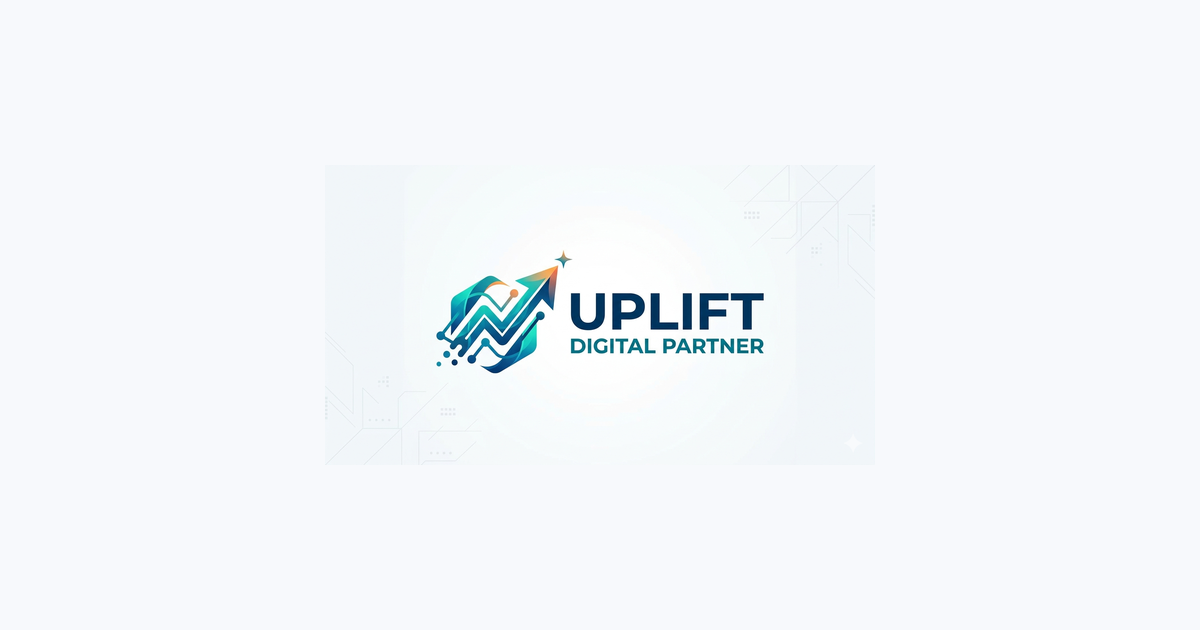
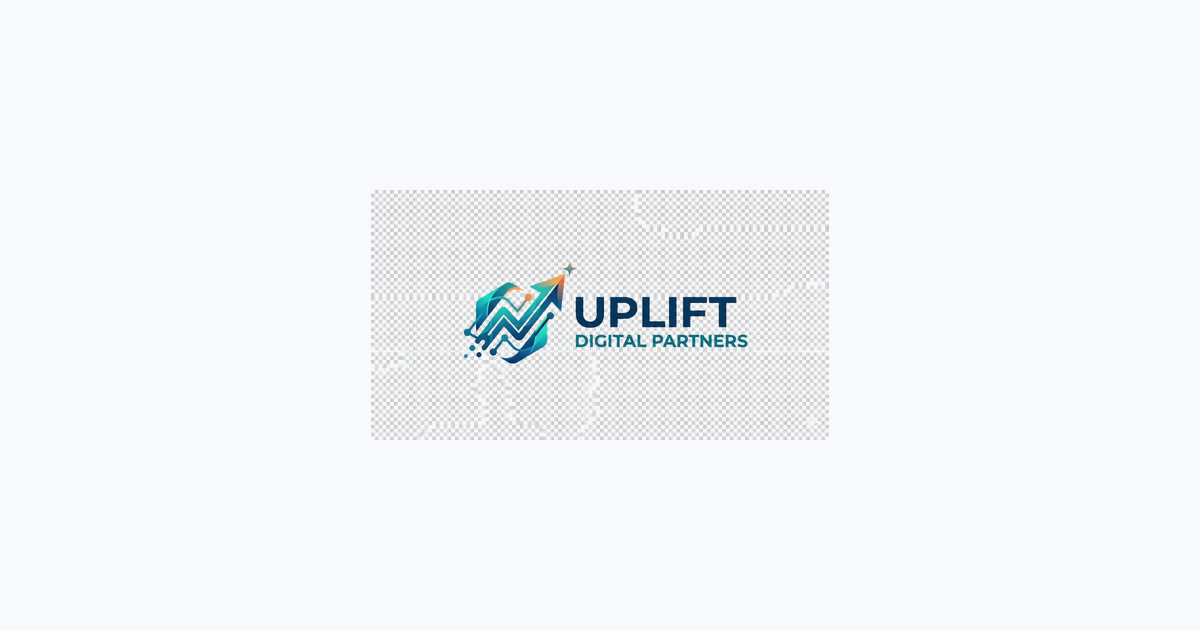
Fixed bugs

Changed region(s): [[0.3083, 0.3016, 0.7092, 0.6937]]

diff --git a/assets/js/main.js b/assets/js/main.js
@@ -16,6 +16,13 @@
     });
   });
 
+  // Close mobile nav when a link is clicked
+  document.querySelectorAll('.nav-links a').forEach(function(link) {
+    link.addEventListener('click', function() {
+      document.querySelector('.nav-links').classList.remove('show');
+    });
+  });
+
   // Intersection Observer for scroll animations
   const observer = new IntersectionObserver((entries) => {
     entries.forEach(entry => {
@@ -39,11 +46,11 @@
       { key: 'name', type: 'text', placeholder: 'Type your name...' },
       { key: 'business', type: 'text', placeholder: 'Your business name...' },
       { key: 'service', type: 'chips', options: ['Custom Website', 'Website Revamp', 'Brand & UI Design', 'SEO & Local Search', 'Ongoing Support', 'Not Sure Yet'] },
-      { key: 'details', type: 'text', placeholder: 'Tell us briefly...' },
-      { key: 'email', type: 'text', placeholder: 'your@email.com' },
-      { key: 'phone', type: 'text', placeholder: '(555) 123-4567 or skip' },
+      { key: 'details', type: 'text', placeholder: 'Tell us briefly...', skippable: true },
+      { key: 'email', type: 'text', placeholder: 'your@email.com', validate: 'email' },
+      { key: 'phone', type: 'text', placeholder: '(555) 123-4567 or skip', validate: 'phone' },
       { key: 'meetingType', type: 'chips', options: ['\u{1F3A5} Video Call (Google Meet)', '\u{1F91D} In-Person Meeting'] },
-      { key: 'address', type: 'text', placeholder: '123 Main St, City, State...', skipIf: 'video' },
+      { key: 'address', type: 'text', placeholder: '123 Main St, City, State...', skipIf: 'video', validate: 'address' },
       { key: 'date', type: 'calendar' },
       { key: 'time', type: 'timeslots' },
       { key: 'confirm', type: 'auto' }
@@ -58,10 +65,10 @@
     var s = chatData.steps[step];
     if (!s) return "";
     switch(s.key) {
-      case 'name': return "Hey there! \u{1F44B} I'm the Uplift Digital assistant. I'd love to help you book a free consultation with our team. Let's get started \u2014 what's your name?";
+      case 'name': return "Hey there! \u{1F44B} I'm the Uplift Digital Partners assistant. I'd love to help you book a free consultation with our team. Let's get started \u2014 what's your name?";
       case 'business': return "Nice to meet you, <strong>" + answers.name + "</strong>! What's your business called?";
       case 'service': return "Great \u2014 <strong>" + answers.business + "</strong> sounds interesting! What kind of help are you looking for?";
-      case 'details': return "Good choice! Can you give us a quick idea of what you have in mind? A sentence or two is perfect.";
+      case 'details': return "Good choice! Can you give us a quick idea of what you have in mind? A sentence or two is perfect. <em>(Or skip this if you'd rather discuss in the call.)</em>";
       case 'email': return "Got it! What's the best email address to reach you at?";
       case 'phone': return "Almost done with the basics! What's a good phone number? (Type <em>skip</em> if you'd rather not share one.)";
       case 'meetingType': return "How would you like to meet? We offer both virtual and in-person consultations:";
@@ -110,7 +117,7 @@
   function addBubble(text, type) {
     const div = document.createElement('div');
     div.className = 'chat-bubble ' + type;
-    if (type === 'bot') div.innerHTML = '<span class="bot-label">Uplift Digital</span>' + text;
+    if (type === 'bot') div.innerHTML = '<span class="bot-label">Uplift Digital Partners</span>' + text;
     else div.textContent = text;
     msgContainer.appendChild(div);
     scrollChat();
@@ -272,6 +279,11 @@
 
   function setInputState(step) {
     const s = chatData.steps[step];
+    // Remove any old skip button
+    var oldSkip = document.querySelector('.chat-skip-btn');
+    if (oldSkip) oldSkip.remove();
+    clearValidationError();
+
     if (!s || s.type === 'auto' || s.type === 'chips' || s.type === 'timeslots' || s.type === 'calendar') {
       inputArea.style.display = 'none';
     } else {
@@ -279,10 +291,23 @@
       chatInput.placeholder = s.placeholder || 'Type your answer...';
       chatInput.value = '';
       chatInput.focus();
+
+      // Show skip button if step is skippable
+      if (s.skippable) {
+        var skipBtn = document.createElement('button');
+        skipBtn.className = 'chat-skip-btn';
+        skipBtn.textContent = 'Skip this question \u2192';
+        skipBtn.addEventListener('click', skipStep);
+        msgContainer.appendChild(skipBtn);
+        scrollChat();
+      }
     }
   }
 
   function processAnswer(value) {
+    clearValidationError();
+    var oldSkip = document.querySelector('.chat-skip-btn');
+    if (oldSkip) oldSkip.remove();
     addBubble(value, 'user');
     chatData.answers[chatData.steps[chatData.step].key] = value;
     chatData.step++;
@@ -314,13 +339,74 @@
     }, delay);
   }
 
+  // --- INPUT VALIDATION ---
+  function validateInput(value, type) {
+    switch(type) {
+      case 'email':
+        var emailRegex = /^[a-zA-Z0-9._%+\-]+@[a-zA-Z0-9.\-]+\.[a-zA-Z]{2,}$/;
+        if (!emailRegex.test(value)) return 'Please enter a valid email address (e.g. name@example.com)';
+        return null;
+      case 'phone':
+        if (value.toLowerCase() === 'skip') return null;
+        var cleaned = value.replace(/[\s\-\(\)\.]/g, '');
+        if (!/^\+?\d{7,15}$/.test(cleaned)) return 'Please enter a valid phone number (e.g. 6461234567 or (646) 123-4567)';
+        return null;
+      case 'address':
+        if (value.length < 10) return 'Please enter a full address (e.g. 123 Main St, City, State 12345)';
+        if (!/\d/.test(value)) return 'Address should include a street number';
+        if (!/[a-zA-Z]/.test(value)) return 'Address should include a street name';
+        return null;
+      default:
+        return null;
+    }
+  }
+
+  function showValidationError(msg) {
+    // Remove any existing error
+    var existing = document.querySelector('.chat-error');
+    if (existing) existing.remove();
+    var errDiv = document.createElement('div');
+    errDiv.className = 'chat-error';
+    errDiv.textContent = '\u26A0 ' + msg;
+    msgContainer.appendChild(errDiv);
+    chatInput.classList.add('input-error');
+    scrollChat();
+  }
+
+  function clearValidationError() {
+    var existing = document.querySelector('.chat-error');
+    if (existing) existing.remove();
+    chatInput.classList.remove('input-error');
+  }
+
   function sendChat() {
-    const val = chatInput.value.trim();
+    var val = chatInput.value.trim();
     if (!val) return;
+
+    clearValidationError();
+
+    // Validate if current step has validation
+    var currentStep = chatData.steps[chatData.step];
+    if (currentStep && currentStep.validate) {
+      var error = validateInput(val, currentStep.validate);
+      if (error) {
+        showValidationError(error);
+        return;
+      }
+    }
+
     processAnswer(val);
   }
 
-  chatInput.addEventListener('keydown', (e) => { if (e.key === 'Enter') sendChat(); });
+  function skipStep() {
+    clearValidationError();
+    var skipBtn = document.querySelector('.chat-skip-btn');
+    if (skipBtn) skipBtn.remove();
+    processAnswer('(Skipped)');
+  }
+
+  chatInput.addEventListener('keydown', function(e) { if (e.key === 'Enter') sendChat(); });
+  chatInput.addEventListener('input', function() { clearValidationError(); });
 
   // ─── EMAILJS CONFIG ───
   // Sign up at https://www.emailjs.com (free: 200 emails/month)
@@ -329,10 +415,10 @@
   //    - "booking_owner" → notification to you (upliftdigitalpartners@gmail.com)
   //    - "booking_client" → confirmation to the client
   // 3. Copy your Public Key, Service ID, and Template IDs below:
-  var EMAILJS_PUBLIC_KEY = 'CcPOuyJ6RlKbUYLYs';     // from EmailJS dashboard > Account
-  var EMAILJS_SERVICE_ID = 'service_f5jkuya';     // from EmailJS > Email Services
-  var EMAILJS_TEMPLATE_OWNER = 'template_ywz9flb';   // template for your team
-  var EMAILJS_TEMPLATE_CLIENT = 'template_7mvi1ej'; // template for the client
+  var EMAILJS_PUBLIC_KEY = 'CcP0uyJ6RlKbUYLYs';
+  var EMAILJS_SERVICE_ID = 'service_f5jkuya';
+  var EMAILJS_TEMPLATE_OWNER = 'template_ywz9flb';
+  var EMAILJS_TEMPLATE_CLIENT = 'template_7mvi1ej';
 
   // Initialize EmailJS
   if (typeof emailjs !== 'undefined' && EMAILJS_PUBLIC_KEY !== 'YOUR_PUBLIC_KEY') {
@@ -392,8 +478,8 @@
 
     var calTitle = encodeURIComponent(
       isVideo
-        ? 'Uplift Digital \u2014 Free Consultation with ' + a.name + ' (Video Call)'
-        : 'Uplift Digital \u2014 In-Person Consultation with ' + a.name
+        ? 'Uplift Digital Partners \u2014 Free Consultation with ' + a.name + ' (Video Call)'
+        : 'Uplift Digital Partners \u2014 In-Person Consultation with ' + a.name
     );
     var calDetails = encodeURIComponent(
       'Consultation with ' + a.name + ' from ' + a.business + '.\n\n' +
@@ -441,11 +527,11 @@
       statusBubble.className = 'chat-bubble bot';
       statusBubble.style.cssText = 'font-size:0.82rem;padding:0.65rem 1rem;';
       if (status === 'sent') {
-        statusBubble.innerHTML = '<span class="bot-label">Uplift Digital</span>\u2705 <strong>Emails sent!</strong> A confirmation has been sent to both you and our team.';
+        statusBubble.innerHTML = '<span class="bot-label">Uplift Digital Partners</span>\u2705 <strong>Emails sent!</strong> A confirmation has been sent to both you and our team.';
       } else if (status === 'error') {
-        statusBubble.innerHTML = '<span class="bot-label">Uplift Digital</span>\u26A0\uFE0F Email delivery had an issue. Don\'t worry \u2014 our team has your details and will reach out within 24 hours.';
+        statusBubble.innerHTML = '<span class="bot-label">Uplift Digital Partners</span>\u26A0\uFE0F Email delivery had an issue. Don\'t worry \u2014 our team has your details and will reach out within 24 hours.';
       } else {
-        statusBubble.innerHTML = '<span class="bot-label">Uplift Digital</span>\u{1F4E7} Our team has received your booking details and will email you a confirmation within 24 hours.';
+        statusBubble.innerHTML = '<span class="bot-label">Uplift Digital Partners</span>\u{1F4E7} Our team has received your booking details and will email you a confirmation within 24 hours.';
       }
       msgContainer.appendChild(statusBubble);
       scrollChat();

diff --git a/index.html b/index.html
@@ -3,20 +3,20 @@
 <head>
   <meta charset="UTF-8">
   <meta name="viewport" content="width=device-width, initial-scale=1.0">
-  <title>Uplift Digital Partner — Websites & Apps for Small Businesses</title>
+  <title>Uplift Digital Partners — Websites & Apps for Small Businesses</title>
   <meta name="description" content="We build beautiful, modern websites and apps for small businesses. Custom websites, redesigns, branding, SEO, and ongoing support. Book a free consultation today.">
   <meta name="keywords" content="web design, small business website, website redesign, SEO, branding, digital agency">
-  <meta name="author" content="Uplift Digital Partner">
+  <meta name="author" content="Uplift Digital Partners">
 
   <!-- Open Graph -->
-  <meta property="og:title" content="Uplift Digital Partner — Websites & Apps for Small Businesses">
+  <meta property="og:title" content="Uplift Digital Partners — Websites & Apps for Small Businesses">
   <meta property="og:description" content="We build beautiful, modern websites and apps for small businesses. Book a free consultation today.">
   <meta property="og:image" content="https://upliftdigitalpartners.com/assets/images/og-image.png">
   <meta property="og:type" content="website">
 
   <!-- Twitter Card -->
   <meta name="twitter:card" content="summary_large_image">
-  <meta name="twitter:title" content="Uplift Digital Partner">
+  <meta name="twitter:title" content="Uplift Digital Partners">
   <meta name="twitter:description" content="Beautiful websites and apps for small businesses.">
   <meta name="twitter:image" content="https://upliftdigitalpartners.com/assets/images/og-image.png">
 
@@ -48,7 +48,7 @@
 <nav id="navbar">
   <div class="container">
     <a href="#" class="logo">
-      <img src="assets/images/logo-nav.png" alt="Uplift Digital Partner" class="logo-img">
+      <img src="assets/images/logo-nav.png" alt="Uplift Digital Partners" class="logo-img">
     </a>
     <ul class="nav-links">
       <li><a href="#services">Services</a></li>
@@ -324,7 +324,7 @@
     <div class="footer-grid">
       <div class="footer-brand">
         <a href="#" class="logo">
-          <img src="assets/images/logo-nav.png" alt="Uplift Digital Partner" class="logo-img">
+          <img src="assets/images/logo-nav.png" alt="Uplift Digital Partners" class="logo-img">
         </a>
         <p>Helping small businesses build a powerful online presence with modern websites and design. Your digital partner, every step of the way.</p>
       </div>
@@ -355,7 +355,7 @@
       </div>
     </div>
     <div class="footer-bottom">
-      <span>&copy; 2026 Uplift Digital Partner. All rights reserved.</span>
+      <span>&copy; 2026 Uplift Digital Partners. All rights reserved.</span>
       <div class="footer-socials">
         <a href="#" aria-label="LinkedIn">in</a>
         <a href="#" aria-label="Instagram">ig</a>

diff --git a/assets/css/style.css b/assets/css/style.css
@@ -915,6 +915,23 @@
 
   @media (max-width: 640px) {
     .nav-links { display: none; }
+    .nav-links.show {
+      display: flex;
+      flex-direction: column;
+      position: absolute;
+      top: 100%;
+      left: 0;
+      right: 0;
+      background: var(--white);
+      padding: 1.5rem;
+      box-shadow: var(--shadow-card);
+      border-radius: 0 0 var(--radius) var(--radius);
+      gap: 0.5rem;
+      z-index: 999;
+    }
+    .nav-links.show li { width: 100%; }
+    .nav-links.show a { display: block; padding: 0.75rem 0; }
+    .nav-links.show .btn { text-align: center; margin-top: 0.5rem; }
     .nav-toggle { display: flex; }
     .services-grid .service-card { flex: 0 1 100%; }
     .process-steps { grid-template-columns: 1fr; }
@@ -924,6 +941,43 @@
     .stats-bar .container { grid-template-columns: 1fr 1fr; }
     .hero-float-card { display: none; }
     .hero-mockup { transform: none; }
+  }
+
+  /* ─── VALIDATION ERRORS ─── */
+  .chat-error {
+    font-size: 0.78rem;
+    color: #e53e3e;
+    padding: 0.4rem 0.8rem;
+    background: #fff5f5;
+    border: 1px solid #fed7d7;
+    border-radius: 8px;
+    align-self: flex-start;
+    animation: fadeUp 0.25s ease both;
+    flex-shrink: 0;
+  }
+  .chat-text-input.input-error {
+    border-color: #e53e3e;
+    box-shadow: 0 0 0 3px rgba(229,62,62,0.1);
+  }
+
+  /* ─── SKIP BUTTON ─── */
+  .chat-skip-btn {
+    font-size: 0.78rem;
+    color: var(--text-muted);
+    background: none;
+    border: 1px dashed rgba(10,37,64,0.2);
+    border-radius: 50px;
+    padding: 0.35rem 1rem;
+    cursor: pointer;
+    font-family: var(--font-body);
+    transition: all 0.25s;
+    align-self: flex-end;
+    flex-shrink: 0;
+  }
+  .chat-skip-btn:hover {
+    color: var(--teal-deep);
+    border-color: var(--teal);
+    background: rgba(27,181,160,0.04);
   }
 
   /* ─── TOP BAR ─── */

diff --git a/404.html b/404.html
@@ -3,7 +3,7 @@
 <head>
   <meta charset="UTF-8">
   <meta name="viewport" content="width=device-width, initial-scale=1.0">
-  <title>Page Not Found — Uplift Digital Partner</title>
+  <title>Page Not Found — Uplift Digital Partners</title>
   <link rel="icon" type="image/png" href="assets/images/favicon.png">
   <link href="https://fonts.googleapis.com/css2?family=DM+Sans:wght@400;500;600;700&family=Playfair+Display:wght@600;700&display=swap" rel="stylesheet">
   <style>
@@ -52,7 +52,7 @@
 </head>
 <body>
   <div class="container">
-    <img src="assets/images/logo-nav.png" alt="Uplift Digital Partner" class="logo">
+    <img src="assets/images/logo-nav.png" alt="Uplift Digital Partners" class="logo">
     <div class="code">404</div>
     <h1>Page not found</h1>
     <p>The page you're looking for doesn't exist or has been moved. Let's get you back on track.</p>

diff --git a/README.md b/README.md
@@ -1,6 +1,6 @@
-# Uplift Digital Partner
+# Uplift Digital Partners
 
-Official website for **Uplift Digital Partner** — a digital agency helping small businesses build modern websites, apps, and online presence.
+Official website for **Uplift Digital Partners** — a digital agency helping small businesses build modern websites, apps, and online presence.
 
 🌐 [upliftdigitalpartner.com](https://upliftdigitalpartner.com)
 
@@ -68,4 +68,4 @@ Update the `CNAME` file with your actual domain name.
 
 ## License
 
-© 2026 Uplift Digital Partner. All rights reserved.
+© 2026 Uplift Digital Partners. All rights reserved.
